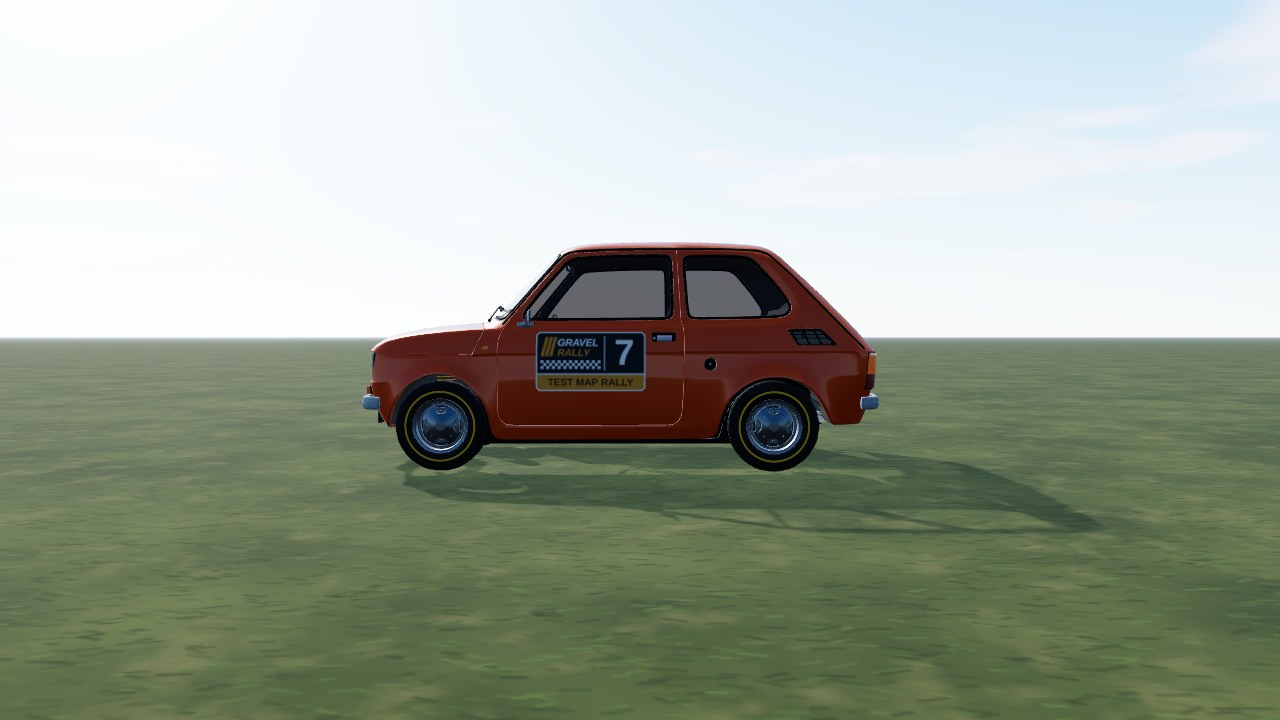
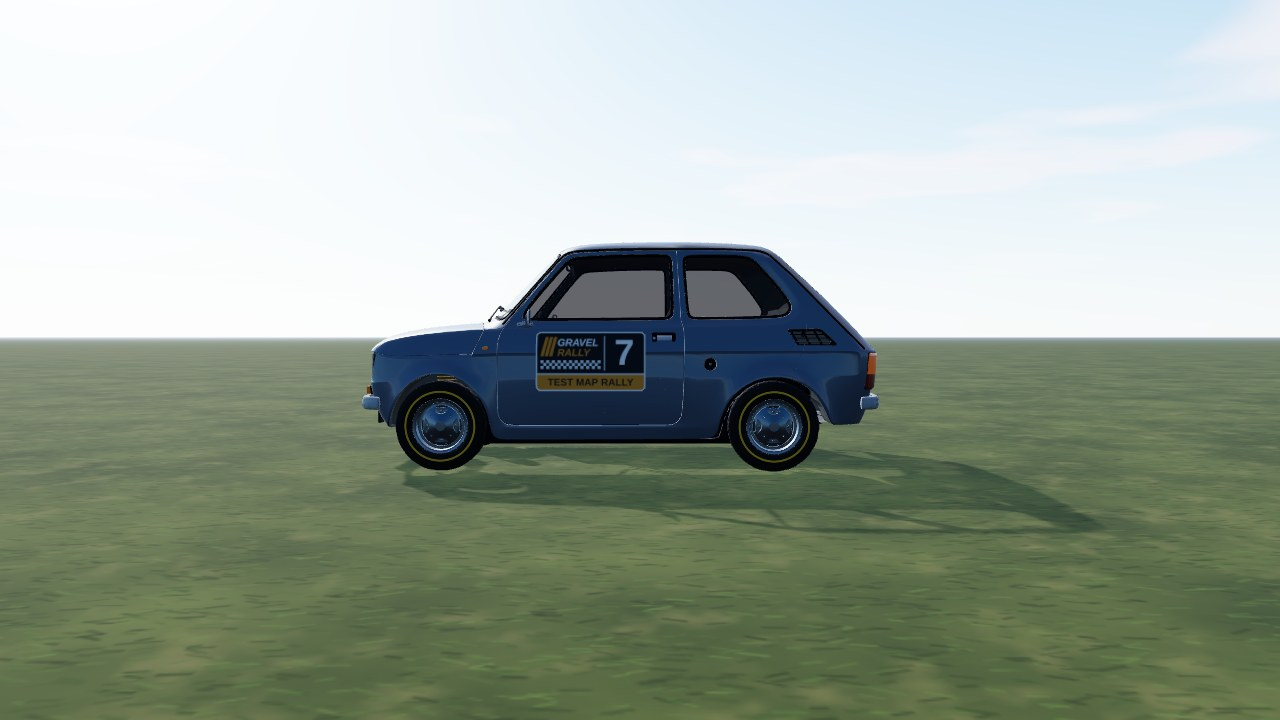
Rally: Fiat 126p blue-grey paint

Changed region(s): [[0.2812, 0.3361, 0.6875, 0.6111]]

diff --git a/src/games/rally/cars/pezetka/pezetka.ts b/src/games/rally/cars/pezetka/pezetka.ts
@@ -201,8 +201,8 @@ export const pezetka: CarDef = {
     ]),
   },
   model: {
-    // The model's own paint is a pale grey; ours is the period 126p orange.
-    paint: '#ff6010',
+    // The model's own paint is a pale grey; ours is a period 126p blue-grey.
+    paint: '#7a8594',
     // The model's own steel rim (pezetka_wheel.glb), de-cambered and centred on the hub.
     rim: { color: '#9aa0a6', spokes: 4, style: 'steel', caliper: false },
     wheelModel: 'pezetka_wheel.glb',

diff --git a/src/games/rally/cars/pezetka/README.md b/src/games/rally/cars/pezetka/README.md
@@ -11,7 +11,7 @@ rear axle, 4-speed, **no ABS and no traction control**. Test car (hidden in the 
 - **Shrunk:** the source is 27 MB (35 textures); the game uses flat paint, so only the bumper and head lamp sheets ship (512 px,
   256 colours). Body 100k triangles, kept at the model's own detail; `normalSmooth` in `model.source.json` irons out the
   ripples that the model's hand-smoothed normals hide.
-- **Paint (ours):** one flat period orange, other seeds recolour it.
+- **Paint (ours):** one flat period blue-grey, other seeds recolour it.
 - **Interior (second model):** the body model's cockpit is only a flat lid at sill height with the seat backs poking
   through, so the dash, steering column and wheel, gear lever, seats, seat rails, rear bench and floor come from
   "fiat 126p" by subishi, with their own textures. Same wheelbase; it is narrowed 5% and lowered to sit under our
